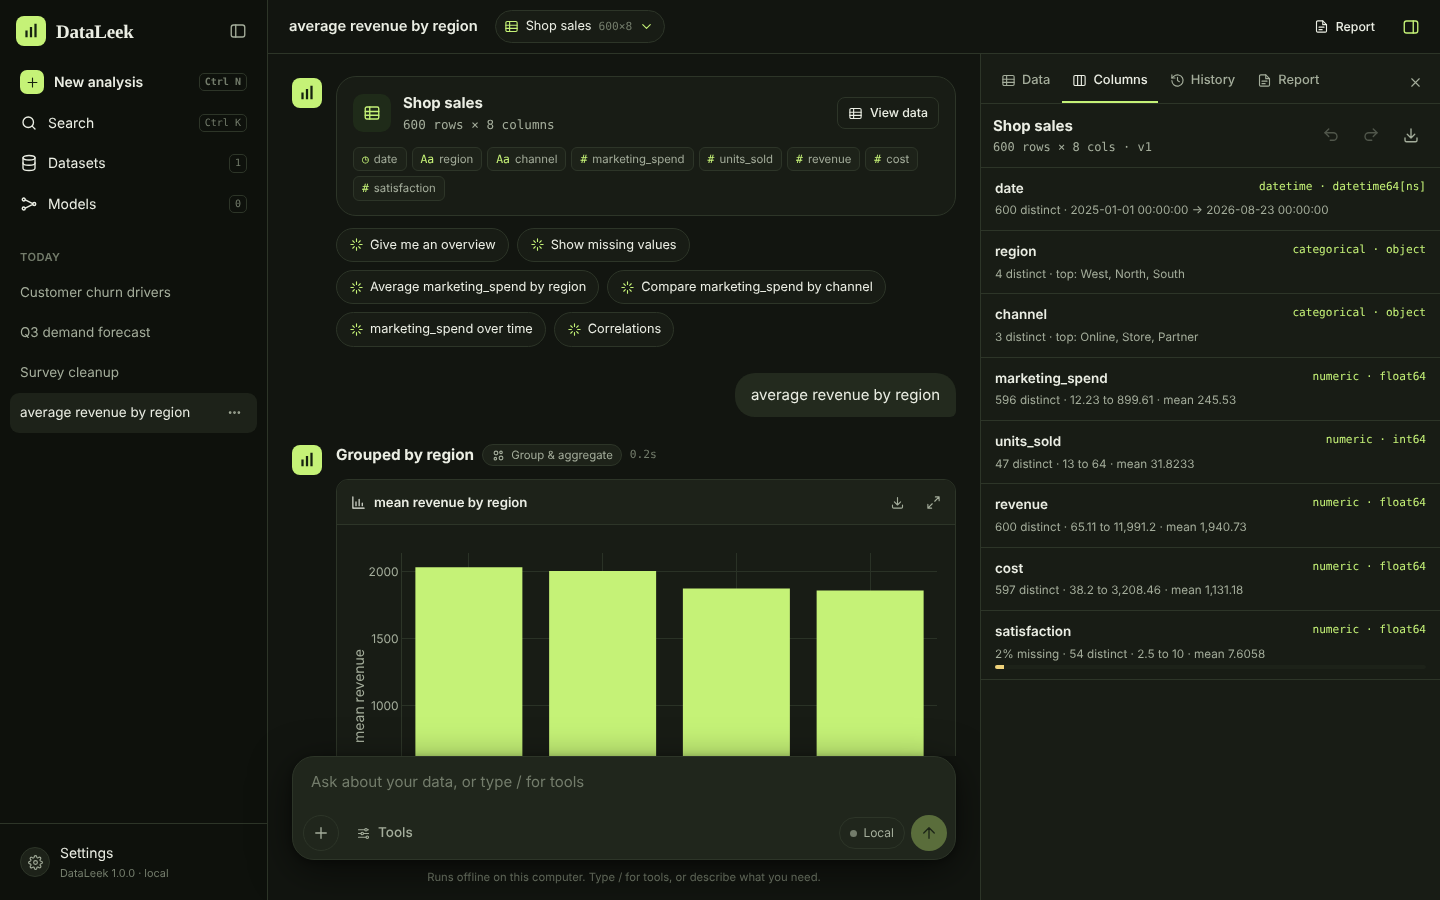
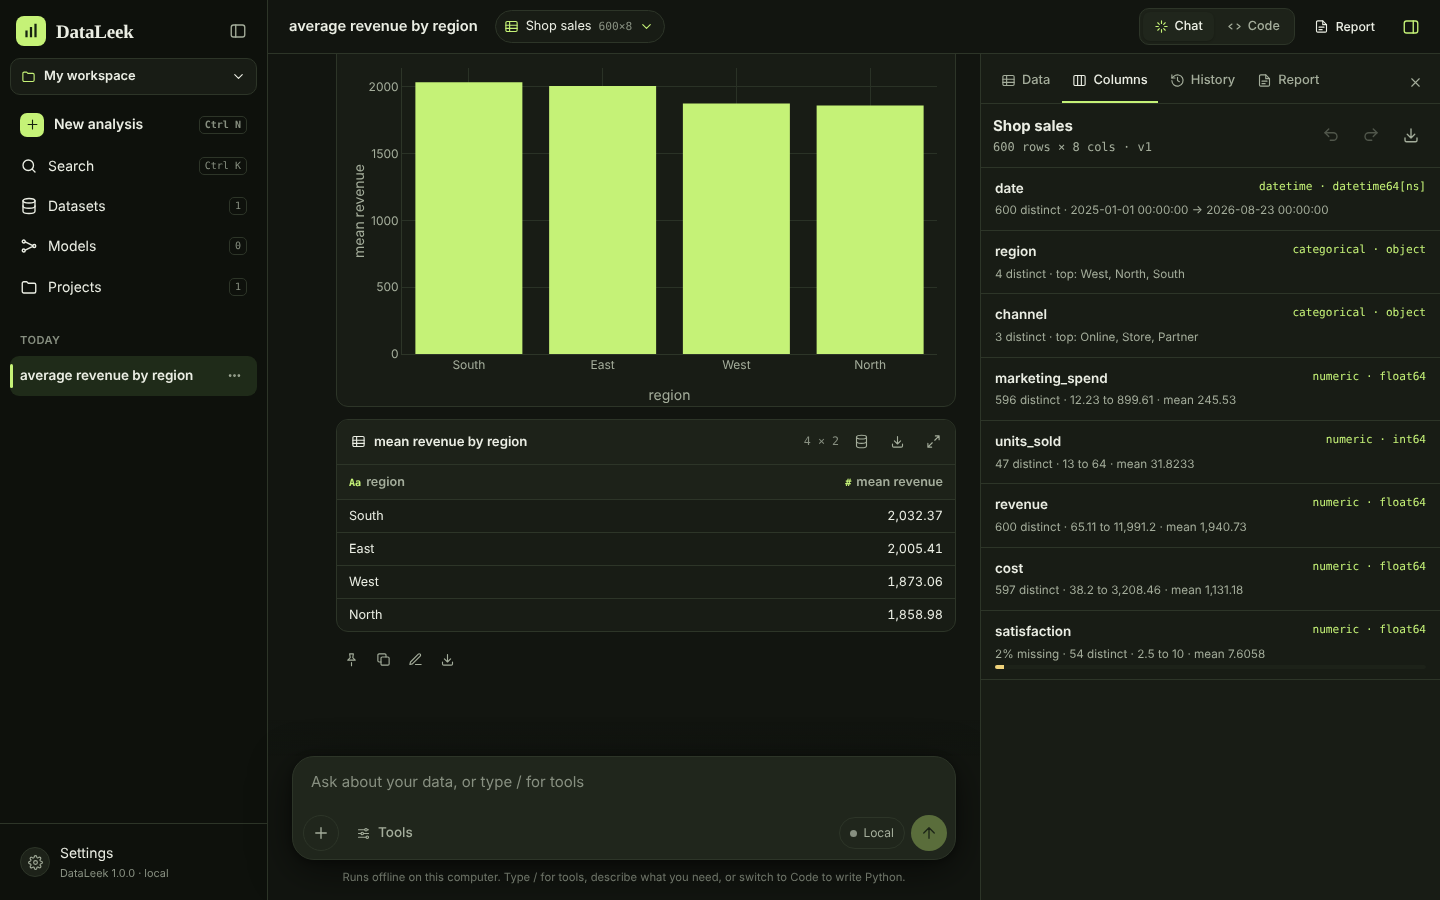
Privacy notice, current screenshots, macOS 15 first-launch steps
Claude-Session: https://claude.ai/code/session_017UTG38MgAXx3WAUmYXBzjz

diff --git a/site/privacy.html b/site/privacy.html
@@ -1,0 +1,103 @@
+<!doctype html>
+<html lang="en">
+<head>
+  <meta charset="utf-8">
+  <meta name="viewport" content="width=device-width, initial-scale=1">
+  <title>DataLeek privacy notice</title>
+  <meta name="description" content="How DataLeek handles your data: it runs on your computer and collects nothing.">
+  <link rel="icon" href="icon.svg" type="image/svg+xml">
+  <style>
+    :root {
+      --bg: #121510; --surface: #181c15; --elevated: #20261c; --border: #2d3528; --text: #ebeee4; --muted: #a4ad9b; --faint: #737c6b;
+      --accent: #c5f277; --accent-text: #162210; --soft: #1f2b19; --cyan: #63d8dd; --iris: #b4a3ff; --coral: #ffb19a;
+      --serif: "Iowan Old Style", "Palatino Linotype", Palatino, Charter, Georgia, serif;
+      --sans: Inter, system-ui, -apple-system, "Segoe UI", Roboto, sans-serif; --mono: ui-monospace, "SF Mono", Menlo, Consolas, monospace;
+      color-scheme: dark;
+    }
+    @media (prefers-color-scheme: light) {
+      :root:not([data-theme="dark"]) { --bg: #f5f2e9; --surface: #fbf9f3; --elevated: #ffffff; --border: #ddd6c6; --text: #1b2018; --muted: #545c4d; --faint: #868d7e;
+        --accent: #2f6b3a; --accent-text: #ffffff; --soft: #e2ebd6; --cyan: #077e86; --iris: #7560b9; --coral: #be6045; color-scheme: light; }
+    }
+    * { box-sizing: border-box; }
+    body { margin: 0; background: var(--bg); color: var(--text); font: 16px/1.6 var(--sans); -webkit-font-smoothing: antialiased; }
+    a { color: var(--accent); }
+    .wrap { max-width: 1120px; margin: 0 auto; padding: 0 16px; }
+    nav { display: flex; align-items: center; gap: 12px; padding: 18px 0; }
+    .mark { width: 32px; height: 32px; border-radius: 9px; background: var(--accent); color: var(--accent-text); display: grid; place-items: center; flex: 0 0 32px; }
+    .mark svg { width: 19px; height: 19px; }
+    .brand { font: 700 21px/1 var(--serif); }
+    nav .links { margin-left: auto; display: flex; gap: 18px; font-size: 14px; }
+    nav .links a { color: var(--muted); text-decoration: none; }
+    nav .links a:hover { color: var(--text); }
+    header.hero { padding: 56px 0 28px; text-align: center; }
+    .kicker { font: 600 12px/1 var(--mono); letter-spacing: .08em; text-transform: uppercase; color: var(--accent); }
+    h1 { font: 500 clamp(34px, 6vw, 60px)/1.05 var(--serif); letter-spacing: -.02em; margin: 16px auto 16px; max-width: 16ch; }
+    .lede { color: var(--muted); font-size: clamp(16px, 2vw, 19px); max-width: 60ch; margin: 0 auto 28px; }
+    .cta { display: flex; flex-wrap: wrap; gap: 10px; justify-content: center; }
+    .btn { display: inline-flex; align-items: center; gap: 10px; padding: 13px 20px; border-radius: 12px; border: 1px solid var(--border); background: var(--surface);
+      color: var(--text); font-weight: 600; text-decoration: none; transition: transform .1s, filter .1s; }
+    .btn:hover { transform: translateY(-1px); }
+    .btn.primary { background: var(--accent); border-color: var(--accent); color: var(--accent-text); }
+    .btn small { font-weight: 500; opacity: .75; }
+    .btn svg { width: 18px; height: 18px; }
+    .meta { color: var(--faint); font-size: 13px; margin-top: 14px; }
+    .shot { margin: 44px auto 0; border-radius: 16px; border: 1px solid var(--border); overflow: hidden; box-shadow: 0 30px 80px #0007; max-width: 1100px; }
+    .shot img { display: block; width: 100%; height: auto; }
+    section { padding: 64px 0 8px; }
+    h2 { font: 500 clamp(26px, 3.4vw, 36px)/1.15 var(--serif); margin: 0 0 8px; }
+    .sub { color: var(--muted); margin: 0 0 26px; max-width: 64ch; }
+    .grid { display: grid; grid-template-columns: repeat(auto-fit, minmax(240px, 1fr)); gap: 14px; }
+    .card { background: var(--surface); border: 1px solid var(--border); border-radius: 16px; padding: 20px; }
+    .card h3 { margin: 10px 0 6px; font-size: 17px; }
+    .card p { margin: 0; color: var(--muted); font-size: 15px; }
+    .card .ic { width: 36px; height: 36px; border-radius: 10px; display: grid; place-items: center; background: var(--soft); color: var(--accent); }
+    .card .ic svg { width: 20px; height: 20px; }
+    .card ul { margin: 8px 0 0; padding-left: 18px; color: var(--muted); font-size: 14px; }
+    .say { font-family: var(--mono); font-size: 13px; background: var(--elevated); border: 1px solid var(--border); border-radius: 999px; padding: 4px 12px; display: inline-block; margin: 3px 2px; color: var(--text); }
+    .downloads { display: grid; grid-template-columns: repeat(auto-fit, minmax(260px, 1fr)); gap: 14px; }
+    .dl { background: var(--surface); border: 1px solid var(--border); border-radius: 16px; padding: 22px; display: flex; flex-direction: column; gap: 10px; }
+    .dl.here { border-color: var(--accent); }
+    .dl h3 { margin: 0; display: flex; align-items: center; gap: 10px; }
+    .dl p, .dl li { color: var(--muted); font-size: 14px; margin: 0; }
+    .dl ol { margin: 0; padding-left: 18px; display: grid; gap: 4px; }
+    .dl .btn { justify-content: center; margin-top: auto; }
+    .tag { font: 600 11px/1 var(--mono); color: var(--accent-text); background: var(--accent); padding: 4px 7px; border-radius: 6px; }
+    .themes { display: flex; flex-wrap: wrap; gap: 10px; }
+    .sw { display: flex; align-items: center; gap: 8px; border: 1px solid var(--border); border-radius: 999px; padding: 6px 12px 6px 6px; background: var(--surface); font-size: 14px; }
+    .sw i { width: 22px; height: 22px; border-radius: 50%; display: block; border: 1px solid #fff2; }
+    details { background: var(--surface); border: 1px solid var(--border); border-radius: 14px; padding: 14px 18px; margin-bottom: 10px; }
+    summary { cursor: pointer; font-weight: 600; }
+    details p { color: var(--muted); margin: 10px 0 0; }
+    footer { color: var(--faint); font-size: 13px; padding: 60px 0 40px; text-align: center; }
+    @media (max-width: 640px) { nav .links { display: none; } header.hero { padding-top: 28px; } }
+  </style>
+</head>
+<body>
+  <div class="wrap" style="max-width:760px">
+    <nav><a href="./" style="display:flex;align-items:center;gap:12px;text-decoration:none;color:inherit"><div class="mark" aria-hidden="true"><svg viewBox="0 0 32 32" fill="none"><path d="M8 25V17M16 25V11M24 25V5" stroke="currentColor" stroke-width="4" stroke-linecap="square"/></svg></div><span class="brand">DataLeek</span></a></nav>
+    <section style="padding-top:24px">
+      <h1 style="text-align:left;margin:0 0 8px;max-width:none;font-size:40px">Privacy notice</h1>
+      <p class="sub">Last updated 3 November 2026. DataLeek is made by THIMRAL (PTY) LTD, South Africa.</p>
+      <h2 style="font-size:24px">The short version</h2>
+      <p>DataLeek runs on your computer. We don't collect, receive or store your data, and the app has no account, analytics or telemetry.</p>
+      <h2 style="font-size:24px">What stays on your computer</h2>
+      <p>Datasets, analyses, notebooks, reports, models, settings, backups and the audit log are stored in DataLeek's folder on your computer. API keys and database passwords are kept in your system keychain. You can erase everything from Settings → Data &amp; privacy.</p>
+      <h2 style="font-size:24px">When DataLeek uses the internet</h2>
+      <p>Only when you ask it to, or for update checks:</p>
+      <ul style="color:var(--muted)">
+        <li><b>Update checks</b> (once a day, can be turned off): the app asks GitHub for the latest version. GitHub sees your IP address, as with any website visit.</li>
+        <li><b>Online imports</b> from a web address, Kaggle, Hugging Face or OpenML: the request goes to that site.</li>
+        <li><b>Database connections</b> you set up: queries go to your database server.</li>
+        <li><b>Cloud AI providers</b> you choose (for example Claude or ChatGPT) with your own key: column names, summary statistics and, only if you allow it, five sample rows are sent to that provider under your agreement with them. With a local model (Ollama or LM Studio) nothing leaves your computer.</li>
+      </ul>
+      <h2 style="font-size:24px">This website and downloads</h2>
+      <p>This page and the downloads are hosted by GitHub, which processes visitors' IP addresses and similar technical data under the <a href="https://docs.github.com/site-policy/privacy-policies/github-general-privacy-statement">GitHub Privacy Statement</a>. The page sets no cookies and has no trackers.</p>
+      <h2 style="font-size:24px">Support requests</h2>
+      <p>If you open an issue or send us a diagnostics file, we use what you share only to help you. Diagnostics files contain the app log and version details, not your datasets, keys or code. Please don't post private data in public issues.</p>
+      <h2 style="font-size:24px">Your rights and contact</h2>
+      <p>Under South Africa's Protection of Personal Information Act (POPIA) and similar laws, you may ask what personal information we hold about you and have it corrected or deleted. Contact us by opening an issue at <a href="https://github.com/Thimral/DataLeek-releases/issues">github.com/Thimral/DataLeek-releases</a>.</p>
+    </section>
+    <footer>© 2026 THIMRAL (PTY) LTD. All rights reserved. · <a href="./">DataLeek</a></footer>
+  </div>
+</body>
+</html>

diff --git a/site/index.html b/site/index.html
@@ -136,7 +136,7 @@
         <div class="dl" data-os="macos">
           <h3>macOS <span class="tag here-tag" hidden>Your system</span></h3>
           <p>macOS 11 or later on Apple silicon (M1 and newer).</p>
-          <ol><li>Unzip and drag <b>DataLeek.app</b> to Applications.</li><li>The first time, right-click it and choose <b>Open</b>.</li></ol>
+          <ol><li>Unzip and drag <b>DataLeek.app</b> to Applications.</li><li>Open it once. When macOS says it can't be checked, go to <b>System Settings → Privacy &amp; Security</b> and click <b>Open Anyway</b>.</li></ol>
           <a class="btn primary" href="https://github.com/Thimral/DataLeek-releases/releases/latest/download/DataLeek-macOS.zip">Download for macOS</a>
         </div>
         <div class="dl" data-os="linux">
@@ -159,7 +159,7 @@
       <details><summary>How big can my files be?</summary><p>Up to 50 MB per file, 100,000 rows and 200 columns per table. Model training samples up to 5,000 rows so it stays responsive.</p></details>
     </section>
 
-    <footer>© 2026 THIMRAL (PTY) LTD. All rights reserved. · <a href="https://github.com/Thimral/DataLeek-releases/issues">Report a problem</a> · <a href="https://github.com/Thimral/DataLeek-releases/blob/main/SECURITY.md">Security</a></footer>
+    <footer>© 2026 THIMRAL (PTY) LTD. All rights reserved. · <a href="https://github.com/Thimral/DataLeek-releases/issues">Report a problem</a> · <a href="https://github.com/Thimral/DataLeek-releases/blob/main/SECURITY.md">Security</a> · <a href="privacy.html">Privacy</a></footer>
   </div>
   <script>
     (function () {

diff --git a/README.md b/README.md
@@ -9,7 +9,7 @@ This repository hosts DataLeek's **installers, release notes and download page**
 | System | File | First launch |
 |---|---|---|
 | Windows 10/11 (64-bit) | [DataLeek-Windows-Setup.exe](https://github.com/Thimral/DataLeek-releases/releases/latest/download/DataLeek-Windows-Setup.exe) | SmartScreen: **More info → Run anyway** |
-| macOS 11+ (Apple silicon) | [DataLeek-macOS.zip](https://github.com/Thimral/DataLeek-releases/releases/latest/download/DataLeek-macOS.zip) | Drag to Applications, then right-click → **Open** |
+| macOS 11+ (Apple silicon) | [DataLeek-macOS.zip](https://github.com/Thimral/DataLeek-releases/releases/latest/download/DataLeek-macOS.zip) | Drag to Applications. Open it once; when macOS blocks it, go to **System Settings → Privacy & Security** and click **Open Anyway** |
 | macOS for IT (MDM) | [DataLeek-macOS.pkg](https://github.com/Thimral/DataLeek-releases/releases/latest/download/DataLeek-macOS.pkg) | Deploy with Jamf, Intune or Kandji |
 | Linux (glibc 2.35+) | [DataLeek-Linux.tar.gz](https://github.com/Thimral/DataLeek-releases/releases/latest/download/DataLeek-Linux.tar.gz) | Extract, run `DataLeek/install.sh` |
 
